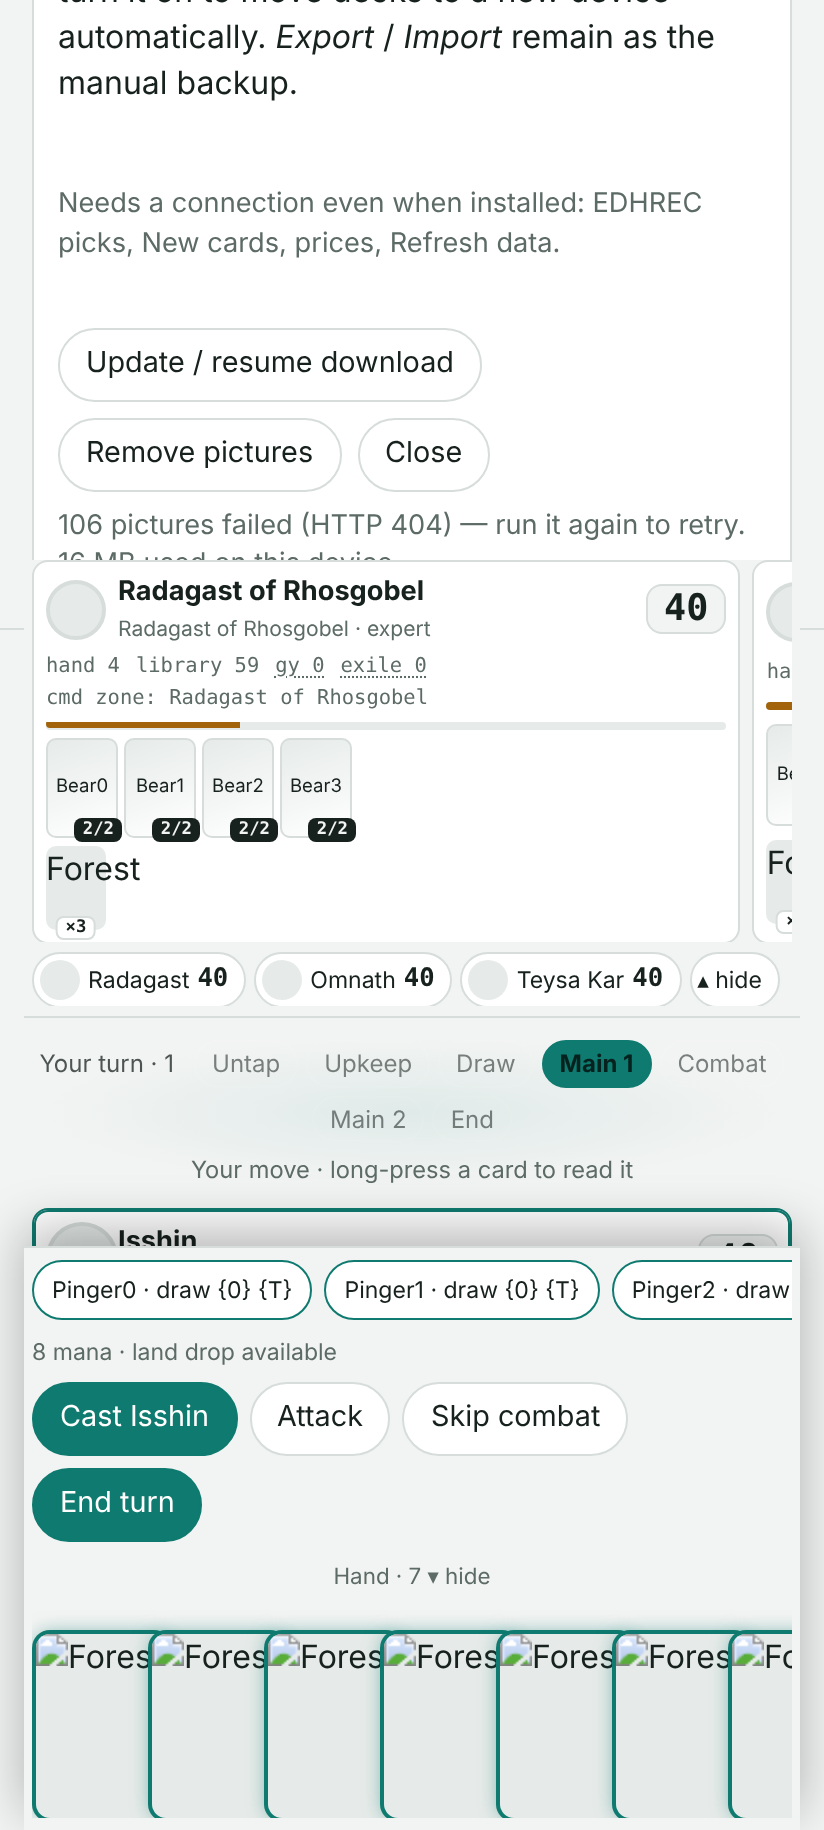
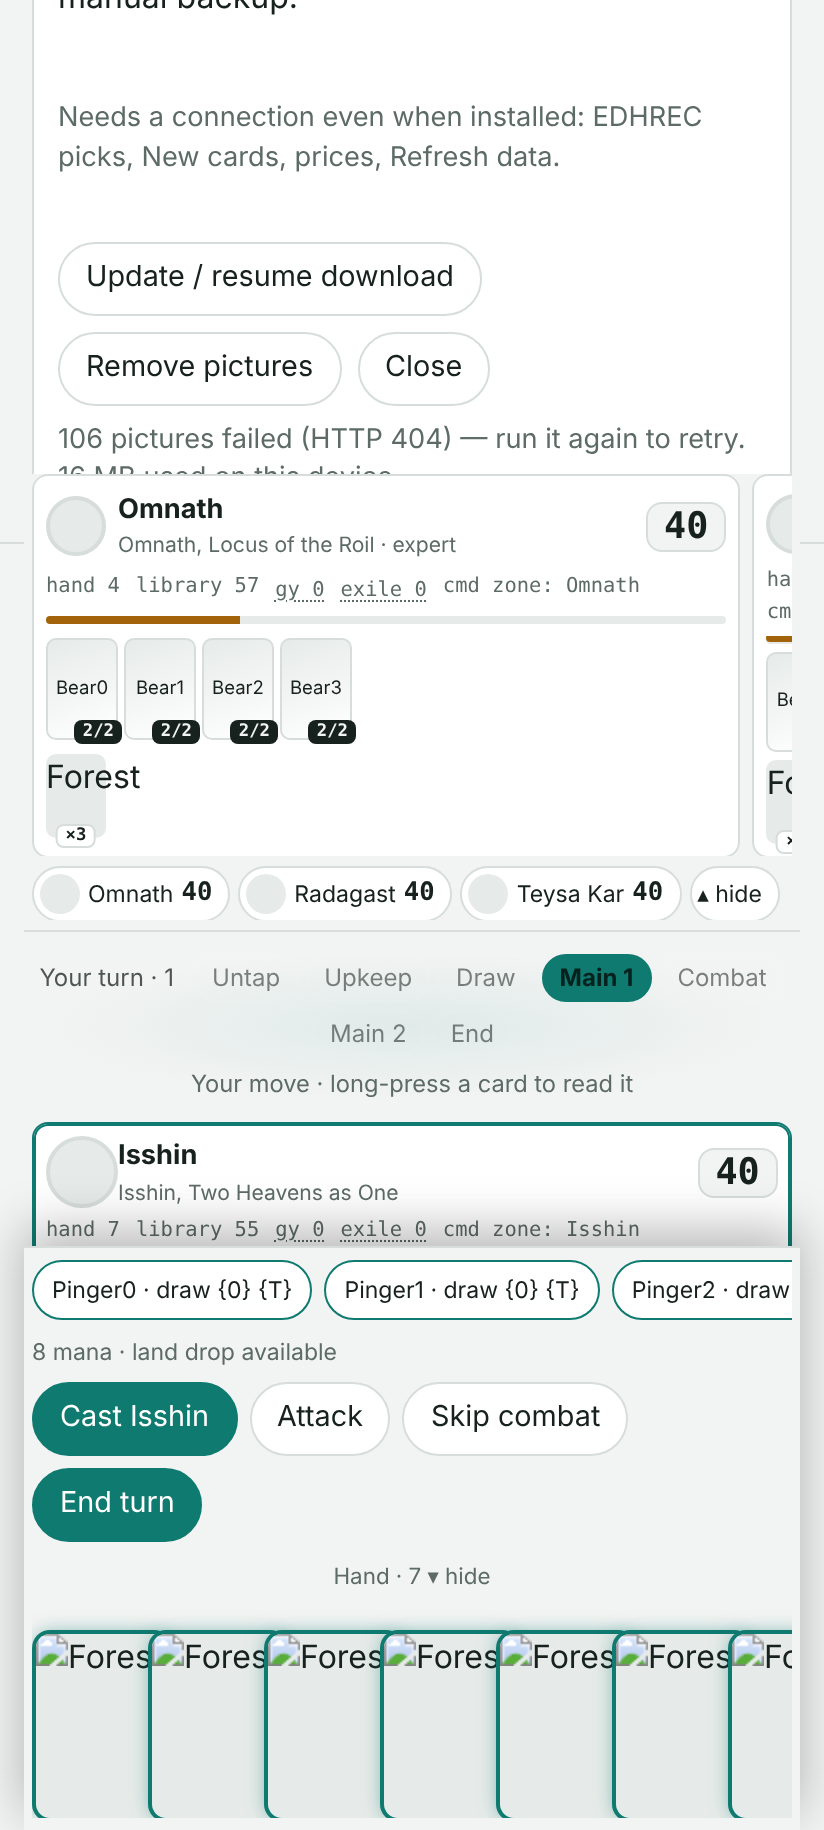
v145: old lists saved without quantities are filled back to 100 with their own basics at game time
Claude-Session: https://claude.ai/code/session_01CKgS67nCipgpfvuKAsciJ7

diff --git a/index.html b/index.html
@@ -595,6 +595,11 @@ function parseListFull(txt){ // handles Archidekt, Moxfield, MTGO and plain expo
              .replace(new RegExp('(?:'+FACE_SEP.source+').*$'),'')  // double-faced "Front / Back" or "Front // Back": Scryfall finds it by the front name
              .trim();return {name,print:m&&m[2]?m[1].toLowerCase()+'/'+m[2].toLowerCase():null}})
     .filter(x=>x.name)}
+/* v145: lists saved before the page kept quantities have every basic land once ("1 Island, 1 Mountain, 1 Plains" in an 81-card Sonic list). For playtesting, fill the deck back up to 100 with those same basics, spread evenly. The saved list is not changed. */
+function padBasics(list,cmd){const B=/^(Snow-Covered )?(Plains|Island|Swamp|Mountain|Forest|Wastes)$/;if(!list||list.length<60)return null;const hasCmd=list.some(n=>cmd.has(norm(n)));const target=hasCmd?100:100-Math.max(1,cmd.size);const gap=target-list.length;if(gap<=0)return null;
+  const cnt={};for(const n of list)if(B.test(n))cnt[n]=(cnt[n]||0)+1;const bs=Object.keys(cnt);if(!bs.length||bs.some(n=>cnt[n]!==1))return null;
+  const add={};for(let k=0;k<gap;k++){const n=bs[k%bs.length];add[n]=(add[n]||0)+1}const out=list.slice();for(const n of bs)for(let k=0;k<(add[n]||0);k++)out.push(n);
+  return {list:out,note:`${list.length} cards saved; filled to ${target} with ${bs.filter(n=>add[n]).map(n=>add[n]+' '+n).join(', ')}`}}
 function printsOf(full){const o={};for(const x of full)if(x.print&&!o[norm(x.name)])o[norm(x.name)]=x.print;return o}
 function listText(dk){const m=new Map();for(const n of dk.list||[])m.set(n,(m.get(n)||0)+1);const pr=dk.prints||{};return [...m].map(([n,k])=>{const p=pr[norm(n)];return k+' '+n+(p?` (${p.split('/')[0].toUpperCase()}) ${p.split('/')[1]}`:'')}).join('\n')}
 
@@ -921,7 +926,7 @@ async function renderTab(){
   $('#detail').querySelectorAll('[role=tab]').forEach(b=>b.setAttribute('aria-selected',b.dataset.t===S.tab));
   const dk=S.decks[d.slug]||{};const own=new Set((dk.list||[]).map(norm));const dismissed=dk.dismissed||{};const kept=dk.kept||{};
   if(S.tab==='list'){
-    pane.innerHTML=`<div id="brbox"></div><p class="note">Paste an export from Archidekt (Export → Text), Moxfield (More → Export → any text option) or a plain list. Quantities, set codes, foil marks, Moxfield #tags and Archidekt [categories] are stripped automatically. Commander lines are fine; the page filters recommendations against this list and uses it to suggest cuts. Saved in this browser; use Export/Import to move it between devices.</p>
+    pane.innerHTML=`<div id="brbox"></div><p class="note">Paste an export from Archidekt (Export → Text), Moxfield (More → Export → any text option) or a plain list. Quantities are kept ("12 Mountain" is twelve cards); set codes, foil marks, Moxfield #tags and Archidekt [categories] are stripped automatically. Commander lines are fine; the page filters recommendations against this list and uses it to suggest cuts. Saved in this browser; use Export/Import to move it between devices.</p>
       <textarea id="lst" aria-label="Decklist">${esc(listText(dk))}</textarea>
       <div class="row"><button class="chip" id="savelist">Save list</button><span class="note" id="lstmsg"></span></div>
       <div id="costbox"></div>
@@ -1058,7 +1063,7 @@ function popularityMap(){const m={};for(const c of (S.snap&&S.snap.commanders)||
 async function staleBuild(){ // b13: a tab left open for hours keeps running an old engine — warn before a game starts on one
   try{const mine=+(((document.querySelector('script[src*="playtest.js"]')||{}).src||'').match(/v=(\d+)/)||[])[1];const r=await fetchT(location.pathname.replace(/[^/]*$/,'')+'index.html',{cache:'no-cache'},5000);if(!r.ok)return null;const live=+((await r.text()).match(/playtest\.js\?v=(\d+)/)||[])[1];return mine&&live&&live>mine?{mine,live}:null}catch(e){return null}}
 /* The loader says which step it is on and counts seconds, so a stuck screen identifies itself: a counter that stops = the page is frozen in that step; a counter that keeps running = waiting on that step. Any error is shown instead of leaving the loading text up forever. */
-const PAGE_BUILD='2026-11-15c';let ptTick=null,ptT0=0,ptStepName='';
+const PAGE_BUILD='2026-11-15d';let ptTick=null,ptT0=0,ptStepName='';
 function ptStep(t){ptStepName=t;const m=$('#ptstep');if(m)m.textContent=t;return new Promise(r=>setTimeout(r,30))} /* the short pause lets the text paint before a heavy step */
 async function startGame(cfg){
   try{await startGame0(cfg)}catch(e){const el=$('#play');el.innerHTML=`<div class="empty"><b>The game could not start.</b><br>Step: ${esc(ptStepName)}<br>${esc(String(e&&e.message||e))}<br><span class="note" style="white-space:pre-wrap;text-align:left;display:block">${esc(String(e&&e.stack||'').split('\n').slice(0,6).join('\n'))}</span><span class="note">page ${PAGE_BUILD} · send a screenshot of this</span></div><div class="row" style="justify-content:center"><button class="chip pri" id="ptretry">Try again</button><button class="chip" id="ptback2">Back to setup</button></div>`;$('#ptback2').onclick=openPlaytest;$('#ptretry').onclick=()=>startGame(cfg)}
@@ -1070,7 +1075,8 @@ async function startGame0(cfg){
   { const st=await staleBuild(); if(st){el.innerHTML=`<div class="empty"><b>This tab is running engine v${st.mine}; v${st.live} is deployed.</b><div class="row" style="justify-content:center;margin-top:8px"><button class="chip pri" id="reloadnow">Reload for v${st.live}</button><button class="chip" id="playold">Play on v${st.mine} anyway</button></div></div>`;const go=await new Promise(res=>{$('#reloadnow').onclick=()=>res(true);$('#playold').onclick=()=>res(false)});if(go){location.reload();return}el.innerHTML='<div class="empty">Fetching cards from Scryfall…</div>'} }
   if(Goldfish.setPopularity)Goldfish.setPopularity(popularityMap());
   const seats=[],raw=[],short=[];const uidBase=Goldfish.uid?Goldfish.uid.get():0;
-  for(let i=0;i<4;i++){const d=S.index.find(x=>x.slug===cfg.slugs[i]);const list=((d&&S.decks[d.slug])||{}).list||[];
+  for(let i=0;i<4;i++){const d=S.index.find(x=>x.slug===cfg.slugs[i]);let list=((d&&S.decks[d.slug])||{}).list||[];let padded=null;
+    if(d){const pd=padBasics(list,commanderNames(d));if(pd){list=pd.list;padded=pd.note}}
     { const m=$('#ptload'); if(m)m.firstChild.textContent=`Loading deck ${i+1} of 4… `; }
     if(!d)throw new Error('deck '+(i+1)+' ('+cfg.slugs[i]+') is not in the deck index');if(!S.decks[d.slug]||!S.decks[d.slug].list)throw new Error((d.display||d.name)+' has no saved card list');
     await ptStep(`${d.display||d.name}: looking up ${new Set(list).size} cards`);
@@ -1100,7 +1106,7 @@ async function startGame0(cfg){
     const human=i===0&&!cfg.watch;
     const seat={name:(human?'You · ':'AI · ')+(d.display||d.name).split(',')[0],deckName:d.display||d.name,deck,human,level:human?null:(cfg.levels[i]||'expert'),art:d.art||(cmdCards[0]&&cmdCards[0].img||'').replace('/small/','/art_crop/')};seats.push(seat);
     raw.push({name:seat.name,deckName:seat.deckName,human,level:seat.level,art:seat.art,listN:list.length,miss,fixed,cmd:cmdCards.map(c=>c.name),cards:deckCards.map(c=>({name:c.name,mana:c.mana,type:c.type,oracle:c.oracle,cmc:c.cmc,power:c.power,toughness:c.toughness,power2:c.power2,toughness2:c.toughness2,mana2:c.mana2,img2:c.img2,loyalty2:c.loyalty2,loyalty:c.loyalty,colors:c.colors,ci:c.ci,img:c.img,imgN:c.imgN,artc:c.artc}))});
-    { /* v144: a saved list that is itself under 100 cards (Peter Parker 87, Teysa Karlov 89) was played without a word — nothing failed to load, the list is just incomplete */ const tot=raw[raw.length-1].cards.length; if(tot>=60&&tot<100&&!miss.length) short.push({name:d.display||d.name,miss:[],n:0,total:tot}); }
+    { /* v144: a saved list that is itself under 100 cards (Peter Parker 87, Teysa Karlov 89) was played without a word — nothing failed to load, the list is just incomplete */ const tot=raw[raw.length-1].cards.length; if(tot>=60&&tot<100&&!miss.length) short.push({name:d.display||d.name,miss:[],n:0,total:tot}); else if(padded) short.push({name:d.display||d.name,miss:[],n:0,padded}); if(padded) raw[raw.length-1].fixed=(raw[raw.length-1].fixed||[]).concat([padded]); }
   }
   await ptStep('checking combos');
   const pm=popularityMap(),inDecks=new Set(raw.flatMap(r=>r.cards.map(c=>c.name))),pop={};for(const n of inDecks)if(pm[n]!=null)pop[n]=pm[n];
@@ -1108,7 +1114,7 @@ async function startGame0(cfg){
   let combos=[];try{await Promise.race([loadCombos(),new Promise(r=>setTimeout(r,4000))]);if(CB.m){const seen=new Set();for(const r of raw){const ns=new Set(r.cards.map(c=>norm(c.name)).concat(r.cards.map(c=>norm(c.name.split(' // ')[0]))));for(const n of ns)for(const row of CB.m.get(n)||[]){const k=row[0]+'|'+row[1];if(seen.has(k))continue;if((ns.has(norm(row[0]))||ns.has(norm(row[0].split(' // ')[0])))&&(ns.has(norm(row[1]))||ns.has(norm(row[1].split(' // ')[0])))){seen.add(k);combos.push(row.slice(0,5))}}}}}catch(e){}
   if(Goldfish.setCombos)Goldfish.setCombos(combos);
   const shortSig=JSON.stringify(short);if(short.length&&!cfg.shortOk&&PT.shortSig!==shortSig){ /* b20: say so when a deck is playing short — a 90-card Teval game was played without anyone being told ten cards never loaded */
-    el.innerHTML=`<div class="empty" id="ptshort"><b>${short.every(x=>x.total)?'Some decks are under 100 cards':'Some cards could not be loaded'+(CDB.lastErr?' — Scryfall did not answer ('+esc(CDB.lastErr)+')':'')}.</b><br>${short.map(x=>x.total?`<b>${esc(x.name)}</b>: the saved list has only ${x.total} cards — ${100-x.total} short of 100. Nothing failed to load; the list itself is incomplete. Add the missing cards on the Decks tab.`:`<b>${esc(x.name)}</b>: ${x.n} card${x.n===1?'':'s'} missing — ${esc(x.miss.slice(0,40).join(', '))}${x.miss.length>40?'…':''}`).join('<br>')}<br><span class="note">Playing anyway uses the decks without these cards. Names that never load are usually typos in the saved list.</span></div><div class="row" style="justify-content:center"><button class="chip pri" id="ptretry">Try again</button><button class="chip" id="ptshortgo">Play anyway</button><button class="chip" id="ptback2">Back to setup</button></div>`;
+    el.innerHTML=`<div class="empty" id="ptshort"><b>${short.every(x=>x.total||x.padded)?'Some saved lists are under 100 cards':'Some cards could not be loaded'+(CDB.lastErr?' — Scryfall did not answer ('+esc(CDB.lastErr)+')':'')}.</b><br>${short.map(x=>x.padded?`<b>${esc(x.name)}</b>: ${esc(x.padded)}. This list was saved before the page kept quantities, so each basic land is in it once. The fill is a guess at the split — open the deck on the Decks tab, paste the export again and save to get the exact numbers.`:x.total?`<b>${esc(x.name)}</b>: the saved list has only ${x.total} cards — ${100-x.total} short of 100. Nothing failed to load; the list itself is incomplete. Add the missing cards on the Decks tab.`:`<b>${esc(x.name)}</b>: ${x.n} card${x.n===1?'':'s'} missing — ${esc(x.miss.slice(0,40).join(', '))}${x.miss.length>40?'…':''}`).join('<br>')}<br><span class="note">Playing anyway uses the decks without these cards. Names that never load are usually typos in the saved list.</span></div><div class="row" style="justify-content:center"><button class="chip pri" id="ptretry">Try again</button><button class="chip" id="ptshortgo">Play anyway</button><button class="chip" id="ptback2">Back to setup</button></div>`;
     $('#ptback2').onclick=openPlaytest;$('#ptretry').onclick=()=>{CDB.downUntil=0;CDB.packTried=false;startGame(cfg)};$('#ptshortgo').onclick=()=>{PT.shortSig=shortSig;startGame({...cfg,shortOk:true})};return} /* asked once per set of missing cards, not before every game */
   await ptStep('setting up the table');
   el.innerHTML='';PT.table=GoldfishUI.start(el,seats,{onExit:openPlaytest,onRematch:()=>startGame(cfg),cfg,rawSeats:raw,uidBase,pop,combos});

diff --git a/tests/walkers.js b/tests/walkers.js
@@ -1403,5 +1403,10 @@ const put=async(g,p,name)=>{const pm=await g.enterPerm(p,C(name));pm.summoning=f
        const a1=put(g,me,cr('Big','Beast',6,6)), a2=put(g,me,cr('Dork','Elf',1,1)); a2.card.roles=['ramp']; for(const b of me.battlefield)b.summoning=false; put(g,g.players[1],cr('Wall','Wall',0,8)); const atk=me.ai.chooseAttacks(g,me);
        ok('AI: about to deck, everything that can attack does',atk.some(x=>x.attacker===a1)&&atk.some(x=>x.attacker===a2)&&atk.length>=3,String(atk.length)); }
    }
+   // v145: lists saved before quantities were kept (every basic once) are filled back to 100 for play
+   { const src=require('fs').readFileSync(__dirname+'/../index.html','utf8'); const fn=src.slice(src.indexOf('function padBasics('),src.indexOf('function printsOf(')); const padBasics=new Function('norm',fn+';return padBasics')(x=>String(x).toLowerCase()); const cmd=new Set(['sonic the hedgehog']);
+     const l=[...Array(77)].map((_,k)=>'Card'+k).concat(['Island','Mountain','Plains','Sonic the Hedgehog']); const r=padBasics(l,cmd); const c=n=>r.list.filter(x=>x===n).length;
+     ok('an 81-card list with one of each basic is filled to 100 with those basics, evenly',r.list.length===100&&c('Island')===8&&c('Mountain')===7&&c('Plains')===7&&/filled to 100/.test(r.note),r.note);
+     ok('a list that already has several of a basic, a full list, and a list without its commander line are judged correctly',padBasics(l.concat(['Island']),cmd)===null&&padBasics([...Array(100)].map((_,k)=>'c'+k),cmd)===null&&padBasics(l.slice(0,-1),cmd).list.length===99); }
  }
  console.log(fails+' failed');})();

diff --git a/HANDOVER.md b/HANDOVER.md
@@ -26,8 +26,9 @@ Advisor, not assistant. First sentence must challenge an assumption or expose a 
 
 ## 3. Current state
 
-- **Deployed: v144** (2026‑11‑15)
+- **Deployed: v145** (2026‑11‑15, page 2026‑11‑15d; engine files unchanged from v144)
   `sed -i 's/playtest\.js?v=122/playtest.js?v=123/; s/playtest-ui\.js?v=122/playtest-ui.js?v=123/; s/engine:'"'"'v122'"'"'/engine:'"'"'v123'"'"'/' index.html`
+- **v145 — why some decks were under 100 (real cause).** Read the saved lists from the user's Chrome (with permission): seven decks (Sonic 81, Peter Parker 87, Terra 87, Teysa 89, Teval 90, Y'shtola 92, Kinnan 99 = fine without its commander line) each hold every basic land exactly ONCE, while lists saved later hold 'Mountain ×27'. They were saved by an older page that stripped quantities; today's `parseListFull` keeps them. `padBasics(list, cmd)` (index.html) fills such a list to 100 at game time with its own basics, evenly, without touching the saved list; the pre‑game notice and the export header ('read as: 81 cards saved; filled to 100 with 7 Island, 6 Mountain, 6 Plains') say so. Exact counts need the user to re‑paste each export on the Decks tab. My v143 theory (names failing to load) and v144 theory (lists simply incomplete) were both wrong.
 - **v144 (b40, ten v143 recordings with hand notes; Peter Parker + Teysa Karlov in every game).** **Short decks answered:** the export header reads `87 cards of 87 in the saved list` / `89 of 89`, no misses — the saved lists themselves are incomplete. The pre‑game notice now also fires for a list of 60–99 cards ('Some decks are under 100 cards'). Engine: Signets carry `manaAb.needs` and make no mana when nothing else can pay their {1} (`manaSrcs` post‑filter; Dark Ritual off a lone Signet); `canUseAbility` hides `cmdToHand` (Command Beacon) with an empty command zone; Combat Celebrant's exert asks (`humanMay`); Photon's `manaDmg` asks the colour; `landToBf`, Scapeshift, Ghost Quarter and the fallback ramp shuffle BEFORE the land enters (v141 only fixed the fetch‑land path — Nature's Lore → Commercial District still lost the surveilled card); `damage` with `to:'target opponent|player'` asks for a player only (Aragorn, the Uniter); **own enter triggers get trigger doublers on every path**: `trigger()` wraps `trigger0()` and repeats when `label==='ETB'` per `b40_ownEtb` = `etbTimes` + (`trigTimes`−1) (Katara, the Fearless; Roaming Throne); the attacker‑declaration window (`humanTurn(p,'declare')`) sets `b36_combatOnly` — no sorceries or land plays while choosing attackers; tapTarget / pumpEntered / selfPumpEOT log their outcome. **AI:** `b40_drawsOn(me, when)` + `b40_deckRisk(me, n)` — with ≤8 cards in library it plays no land and casts no ramp/creature that would fire its own non‑optional draw trigger, and `chooseAttacks` sends everything (AI Omnath, Locus of the Roil at 41 life with a full board played a fetch land into its landfall draws with 2 cards left, having skipped three attack steps). UI: phase bar (`#ptphase`, current phase highlighted, 'choosing attackers'); stacks over 6 items collapse to 4 rows with 'Show all' (`stack-toggle`, `this.stackOpen`); named counters `b.ck.*` shown as badges (Eumidian Hatchery's hatchling counters were counted, never displayed); 'Pass until my turn' now stops only for a wipe, something aimed at my permanent/spell, or a SPELL aimed at me (not triggers naming me); every priority stop is recorded in `this.stopNotes` and woven into `logText()` as `[stop] step · top · options · stops` (kept out of `g.log` so replays still match line for line). Reports the logs contradicted: Earth King's Lieutenant (its enter trigger hit 5 Allies; Sokka/Hakoda came later so the Lieutenant gets the counter). Analysis scripts: scratchpad `aihold.js` (AI turns ending with ≥3 mana and a castable sorcery‑speed card: 4 of 257 — mana use is not the AI's problem). Tests: walkers v144 block, `tests/ui/phasebar.js`. Not done: a general AI search for a winning line.
 - **v143 (b39) — review notes in the export, short decks, silent searches.** (1) **Hands in the exported game**: `g.note(msg)` pushes `{t, m, hid:true}` into `g.log` without calling `hooks.log`; `b39_hands(when, only)` writes one line per living player — `[hand · turn start|end of turn|game over] Name: life · lands (untapped) · mana · library · hand (n): cards · command zone` — at the start of every main 1, at the active player's end step, and at the win. They appear in `logText()` / the recording's `text` and `log`, never on screen (the saved‑game reload and undo paths filter `hid`). **Use these to judge AI play**: compare the `turn start` hand + mana with what the AI cast and the `end of turn` leftovers. (2) **Why decks were short**: when Scryfall answered but didn't know a name, the name was dropped with no second lookup (the card file was only consulted when Scryfall didn't answer at all). `startGame0` now checks `data/cards.json` for those names and then `nearName(fb, key)` — the single card within edit distance 1 (2 for names ≥12 letters), nothing on a tie. Each raw seat records `listN`, `miss`, `fixed`; the export header prints `N cards of M in the saved list · NOT LOADED: … · read as: a → b`. The actual missing names for Peter Parker (87) and Teysa Karlov (89) are still unknown — the saved lists live in the user's browser/gist; the next export will name them. (3) Sword of the Animist 'did nothing' = Aven Mindcensor (search limited to top four, no basic there): `landToBf` now says so. (4) Nothing is logged after the win line (`g.b39_over`). Tests: walkers v143 block, `tests/ui/handlog.js`.
 - **v142 (b38) — review of the same eleven recordings (heuristic, not move‑by‑move).** Method: scratchpad `silent.js` (my abilities that resolved with no following log line), `cov.js` (cards I played whose text has more lines than parsed parts), greps for dead effects, game endings, deck sizes. Found and fixed: Urza's Incubator was in the `handles` list but had no reducer (now `RED({n:2, chosen:true})`); the generic `destroy` op destroyed silently (Aura Shards showed 8 'resolves' with nothing after — now logs what was destroyed, or 'nothing destroyed'); `payThen` logs when the cost can't be paid (Cadric). Checked and fine: Cadric firing twice per legend (Annie Joins Up), Jetmir's repeat attacks (vigilance from Jetmir + Combat Celebrant), Valakut Exploration's 5 silent resolutions (end step with nothing exiled). Open: three AI decks loaded short (87/89/89 cards) in g30/g38/g39; log lines continue after 'X wins'; Sword of the Animist resolved silently twice in the Cloud game (declined or no basic — can't tell from the log).
